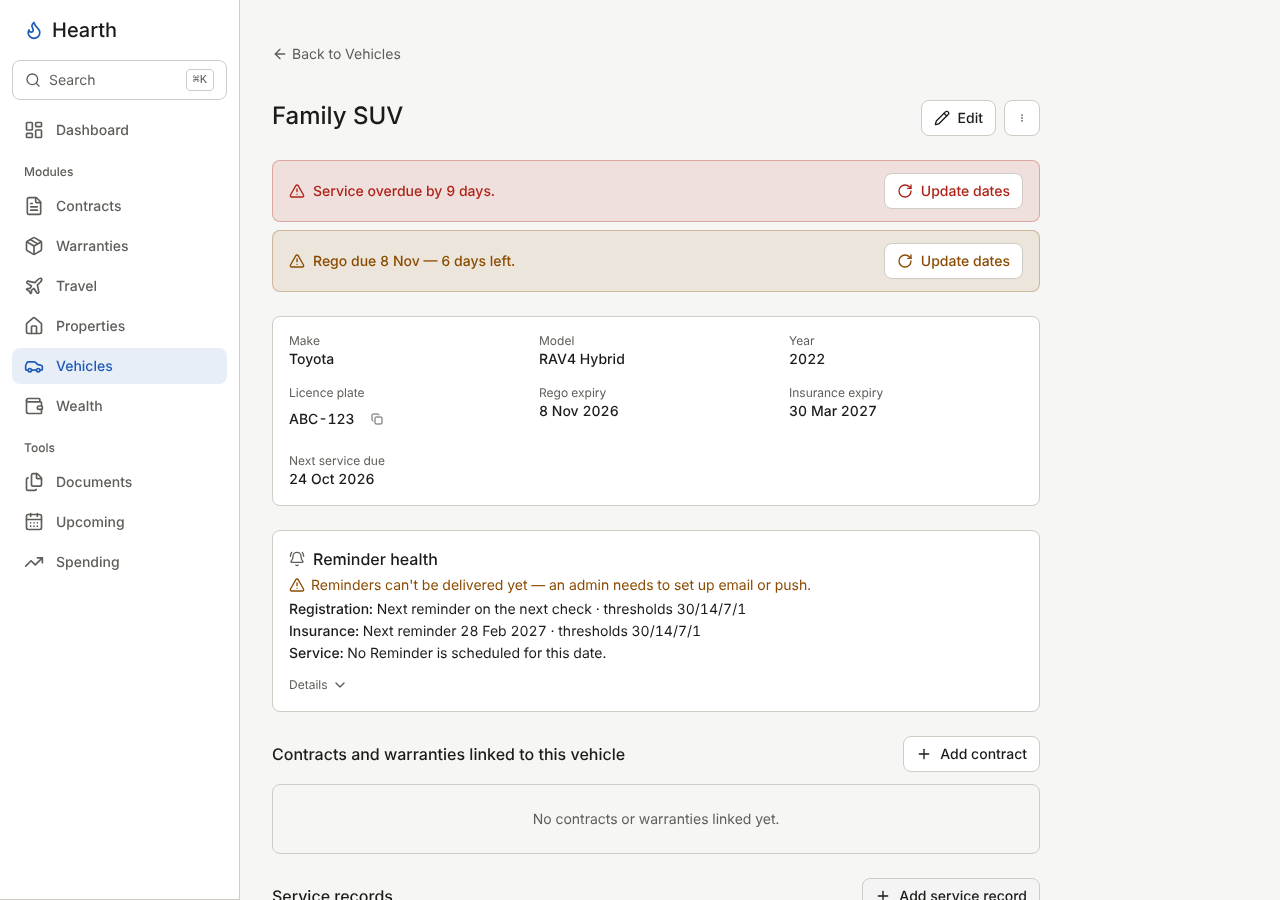
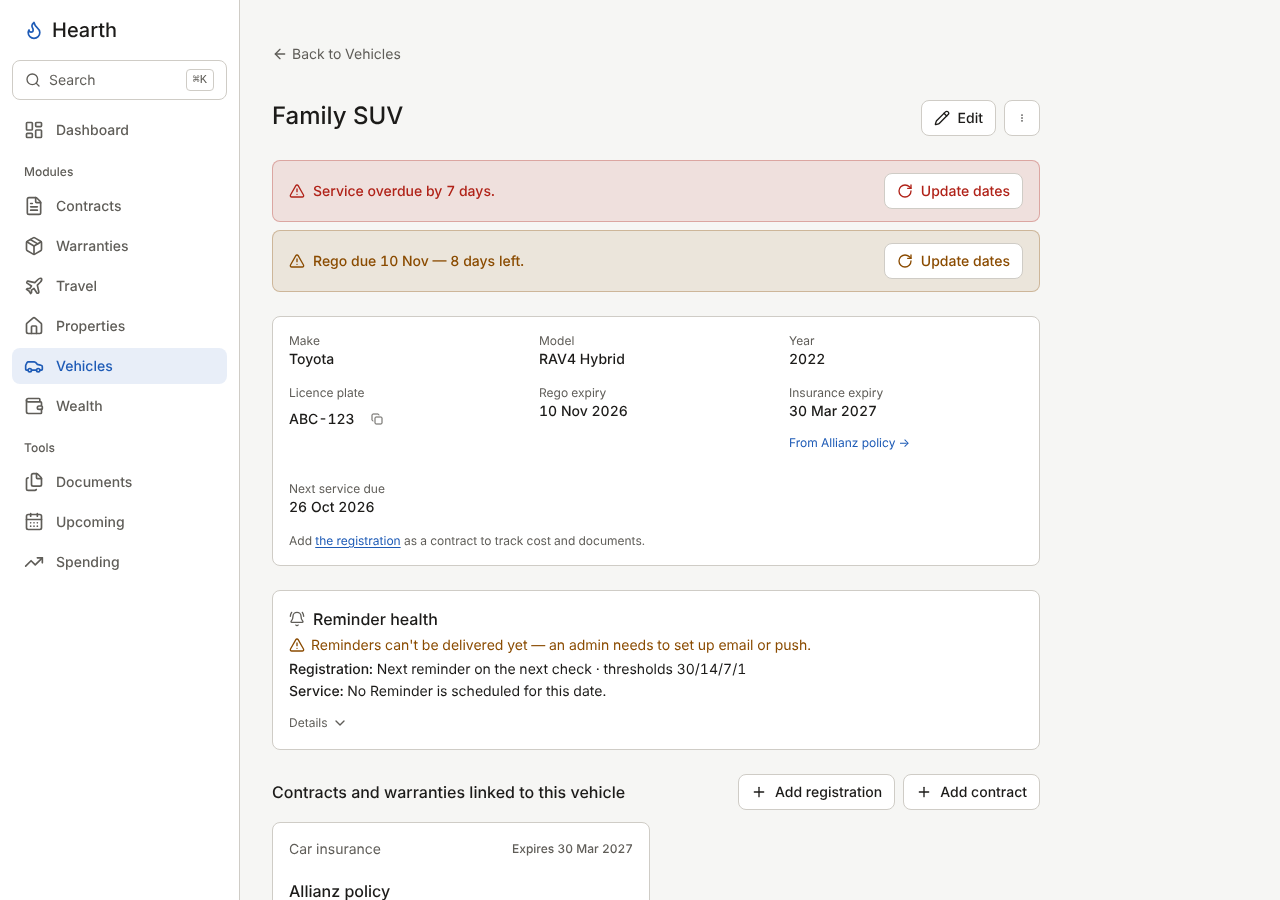
Covers e2e reads the one #360 Reminder card; recapture vehicle-detail (#456)
#516 replaced the per-date Reminder cards with one card listing a line per
date, so the Covers spec checks for the "Insurance:" line instead of an
"Insurance reminder" heading. The screenshot shows a Covered insurance
date with no Insurance line in that card.

diff --git a/e2e/specs/21-vehicles-module.spec.ts b/e2e/specs/21-vehicles-module.spec.ts
@@ -1,6 +1,6 @@
 import fs from "fs";
 import path from "path";
-import { test, expect } from "@playwright/test";
+import { test, expect, type Page } from "@playwright/test";
 import { ADMIN_AUTH_FILE, UPLOADS_DIR } from "../env";
 
 test.use({ storageState: ADMIN_AUTH_FILE });
@@ -178,6 +178,9 @@ test.describe.serial("Vehicles module", () => {
     await expect(card.getByText(/^Service due \d{1,2} [A-Z][a-z]{2}( \d{4})?$/)).toBeVisible();
   });
 
+  // #360 - one Reminder card per Vehicle, with a line per date it reminds about.
+  const insuranceReminderLine = (page: Page) => page.locator("li", { hasText: /^Insurance: / });
+
   // #456 - a Contract that Covers the Vehicle supplies its insurance date.
   test.describe.serial("a Contract that Covers the Vehicle", () => {
     let policyId: string;
@@ -191,7 +194,7 @@ test.describe.serial("Vehicles module", () => {
 
       await expect(page.getByText("Insurance expiry")).toBeVisible();
       await expect(page.getByText("Add the insurance policy as a contract to track cost and documents.")).toBeVisible();
-      await expect(page.getByRole("heading", { name: "Insurance reminder" })).toBeVisible();
+      await expect(insuranceReminderLine(page)).toBeVisible();
     });
 
     test("Add insurance opens the contract form pre-linked, as car insurance", async ({ page }) => {
@@ -218,7 +221,7 @@ test.describe.serial("Vehicles module", () => {
       );
       await expect(page.getByText("Add the insurance policy as a contract to track cost and documents.")).toHaveCount(0);
       // The Contract's Reminders replace the Vehicle's own for this date.
-      await expect(page.getByRole("heading", { name: "Insurance reminder" })).toHaveCount(0);
+      await expect(insuranceReminderLine(page)).toHaveCount(0);
       await expect(page.getByRole("link", { name: "Add insurance" })).toHaveCount(0);
 
       await page.goto(`/contracts/${policyId}`);
@@ -244,7 +247,7 @@ test.describe.serial("Vehicles module", () => {
       await page.goto(`/vehicles/${vehicleId}`);
       await expect(page.getByRole("link", { name: `From ${policyTitle}` })).toHaveCount(0);
       await expect(page.getByText("Add the insurance policy as a contract to track cost and documents.")).toBeVisible();
-      await expect(page.getByRole("heading", { name: "Insurance reminder" })).toBeVisible();
+      await expect(insuranceReminderLine(page)).toBeVisible();
       await expect(page.getByRole("link", { name: "Add insurance" })).toBeVisible();
     });
 
